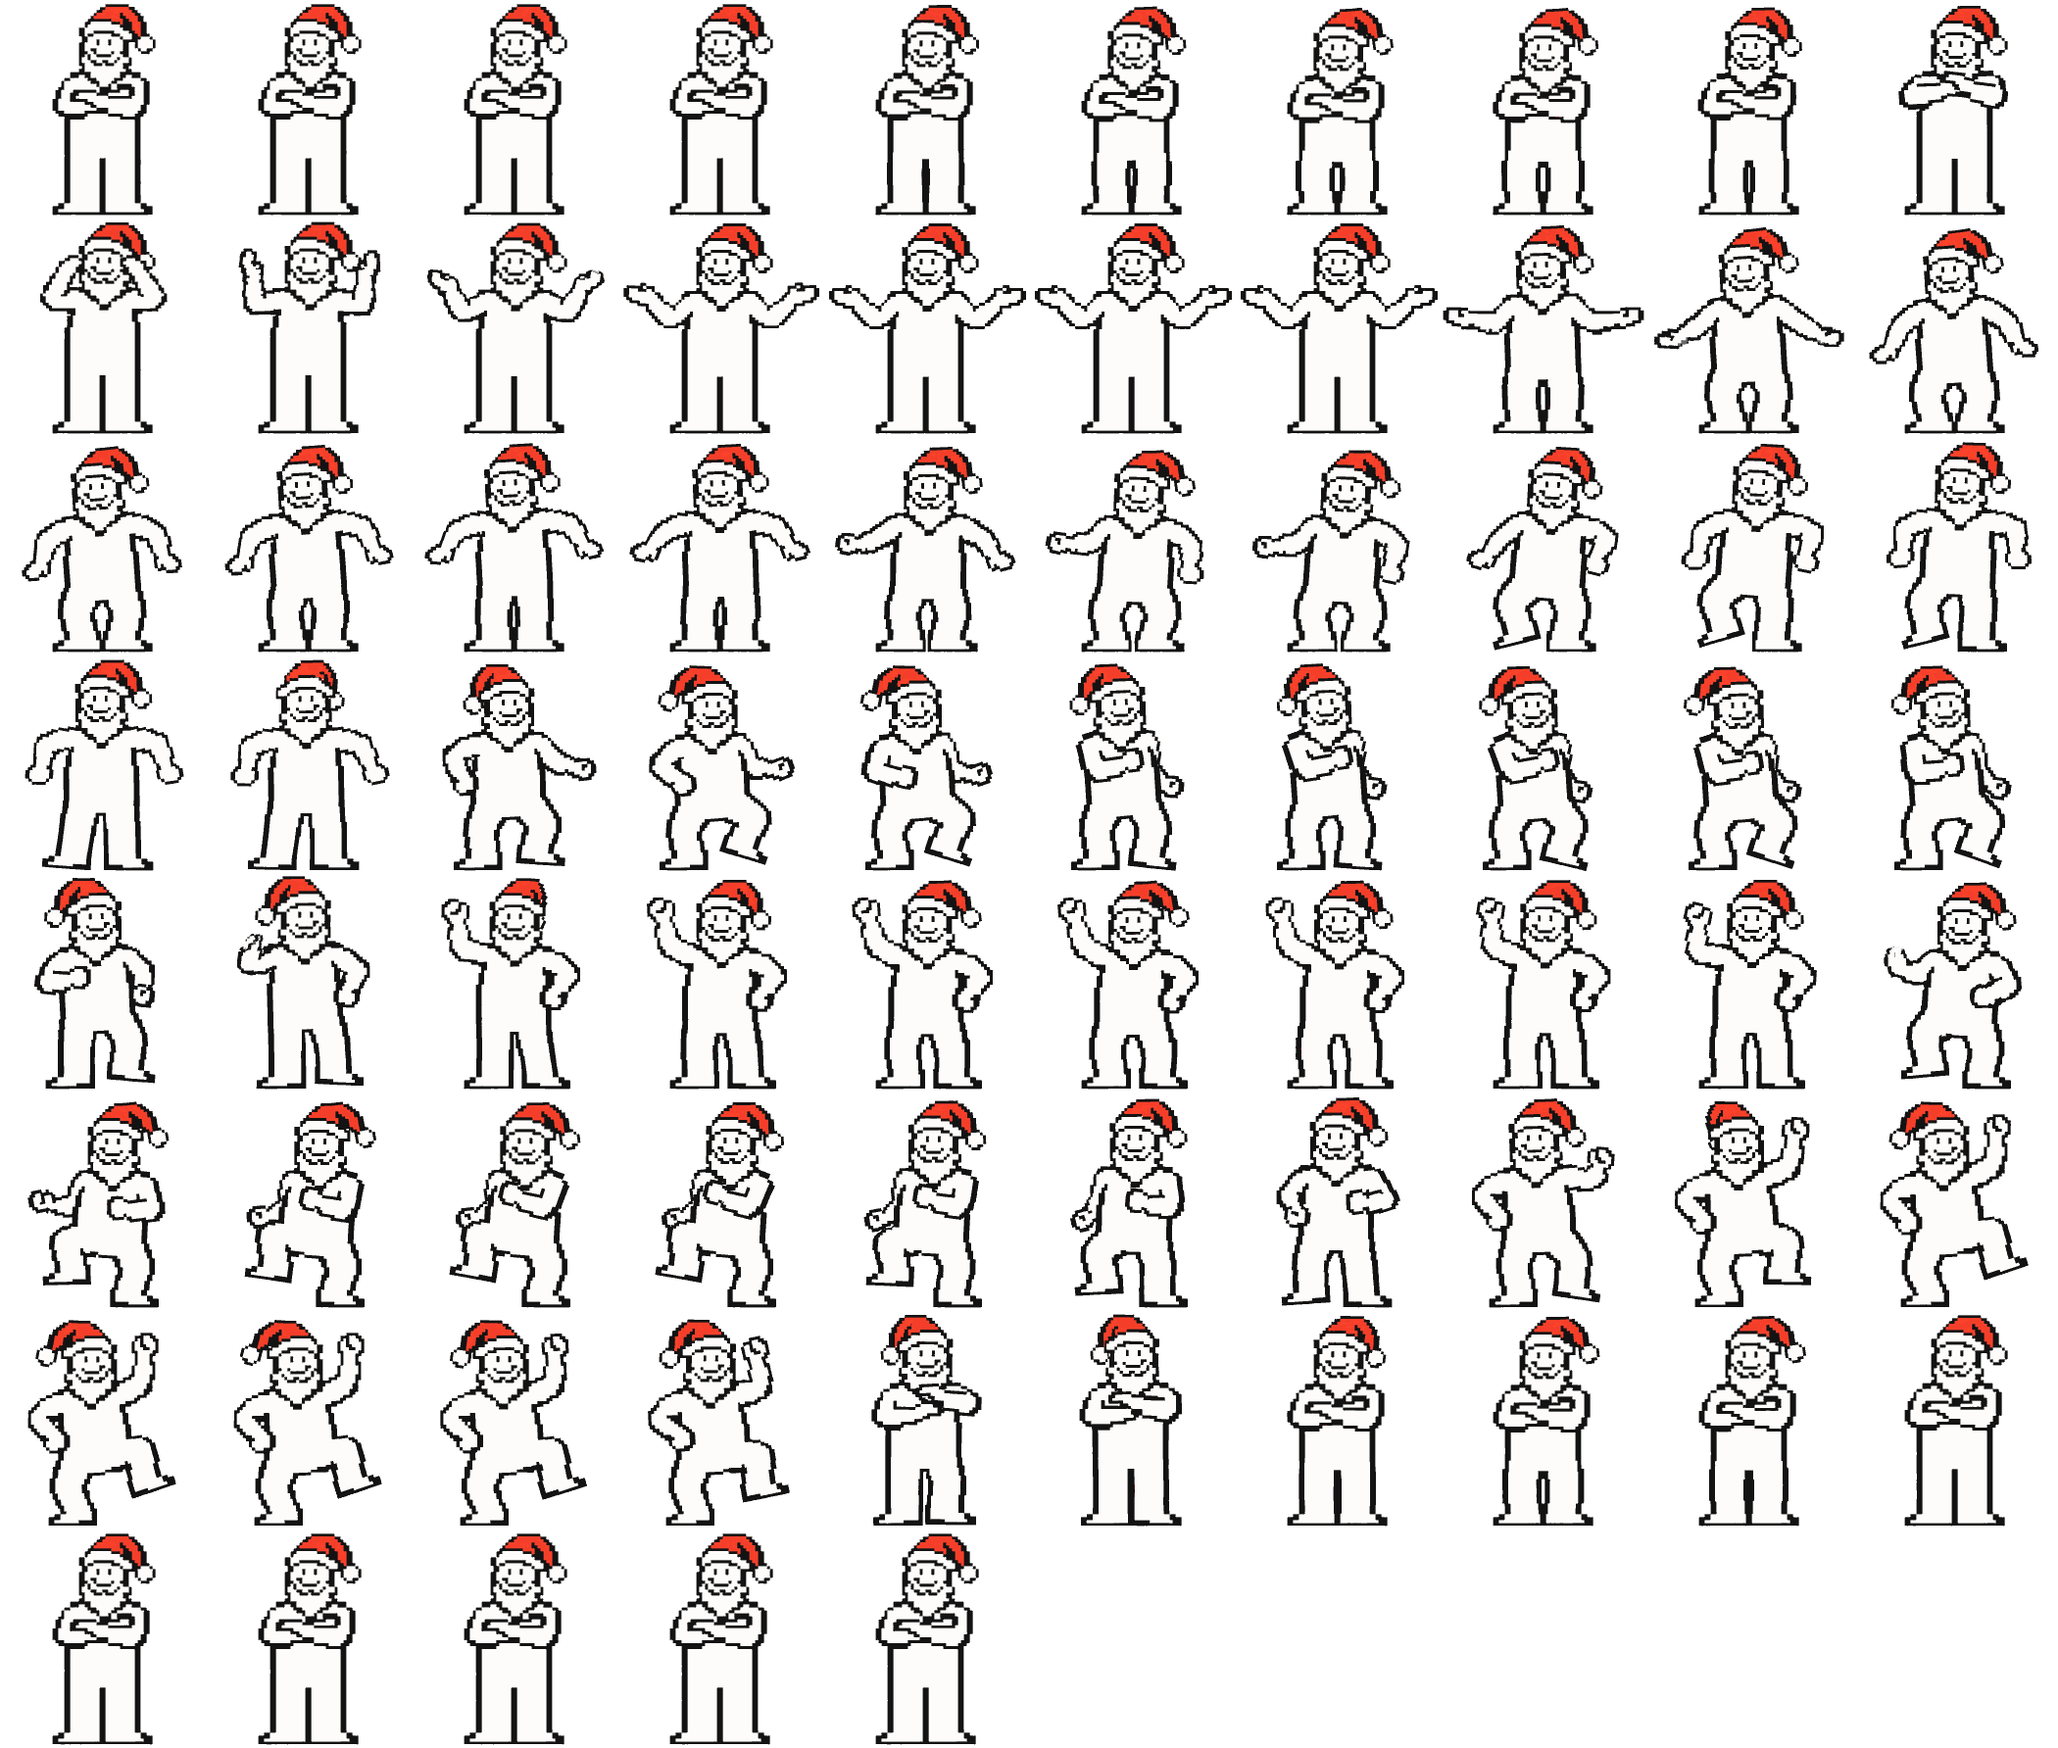
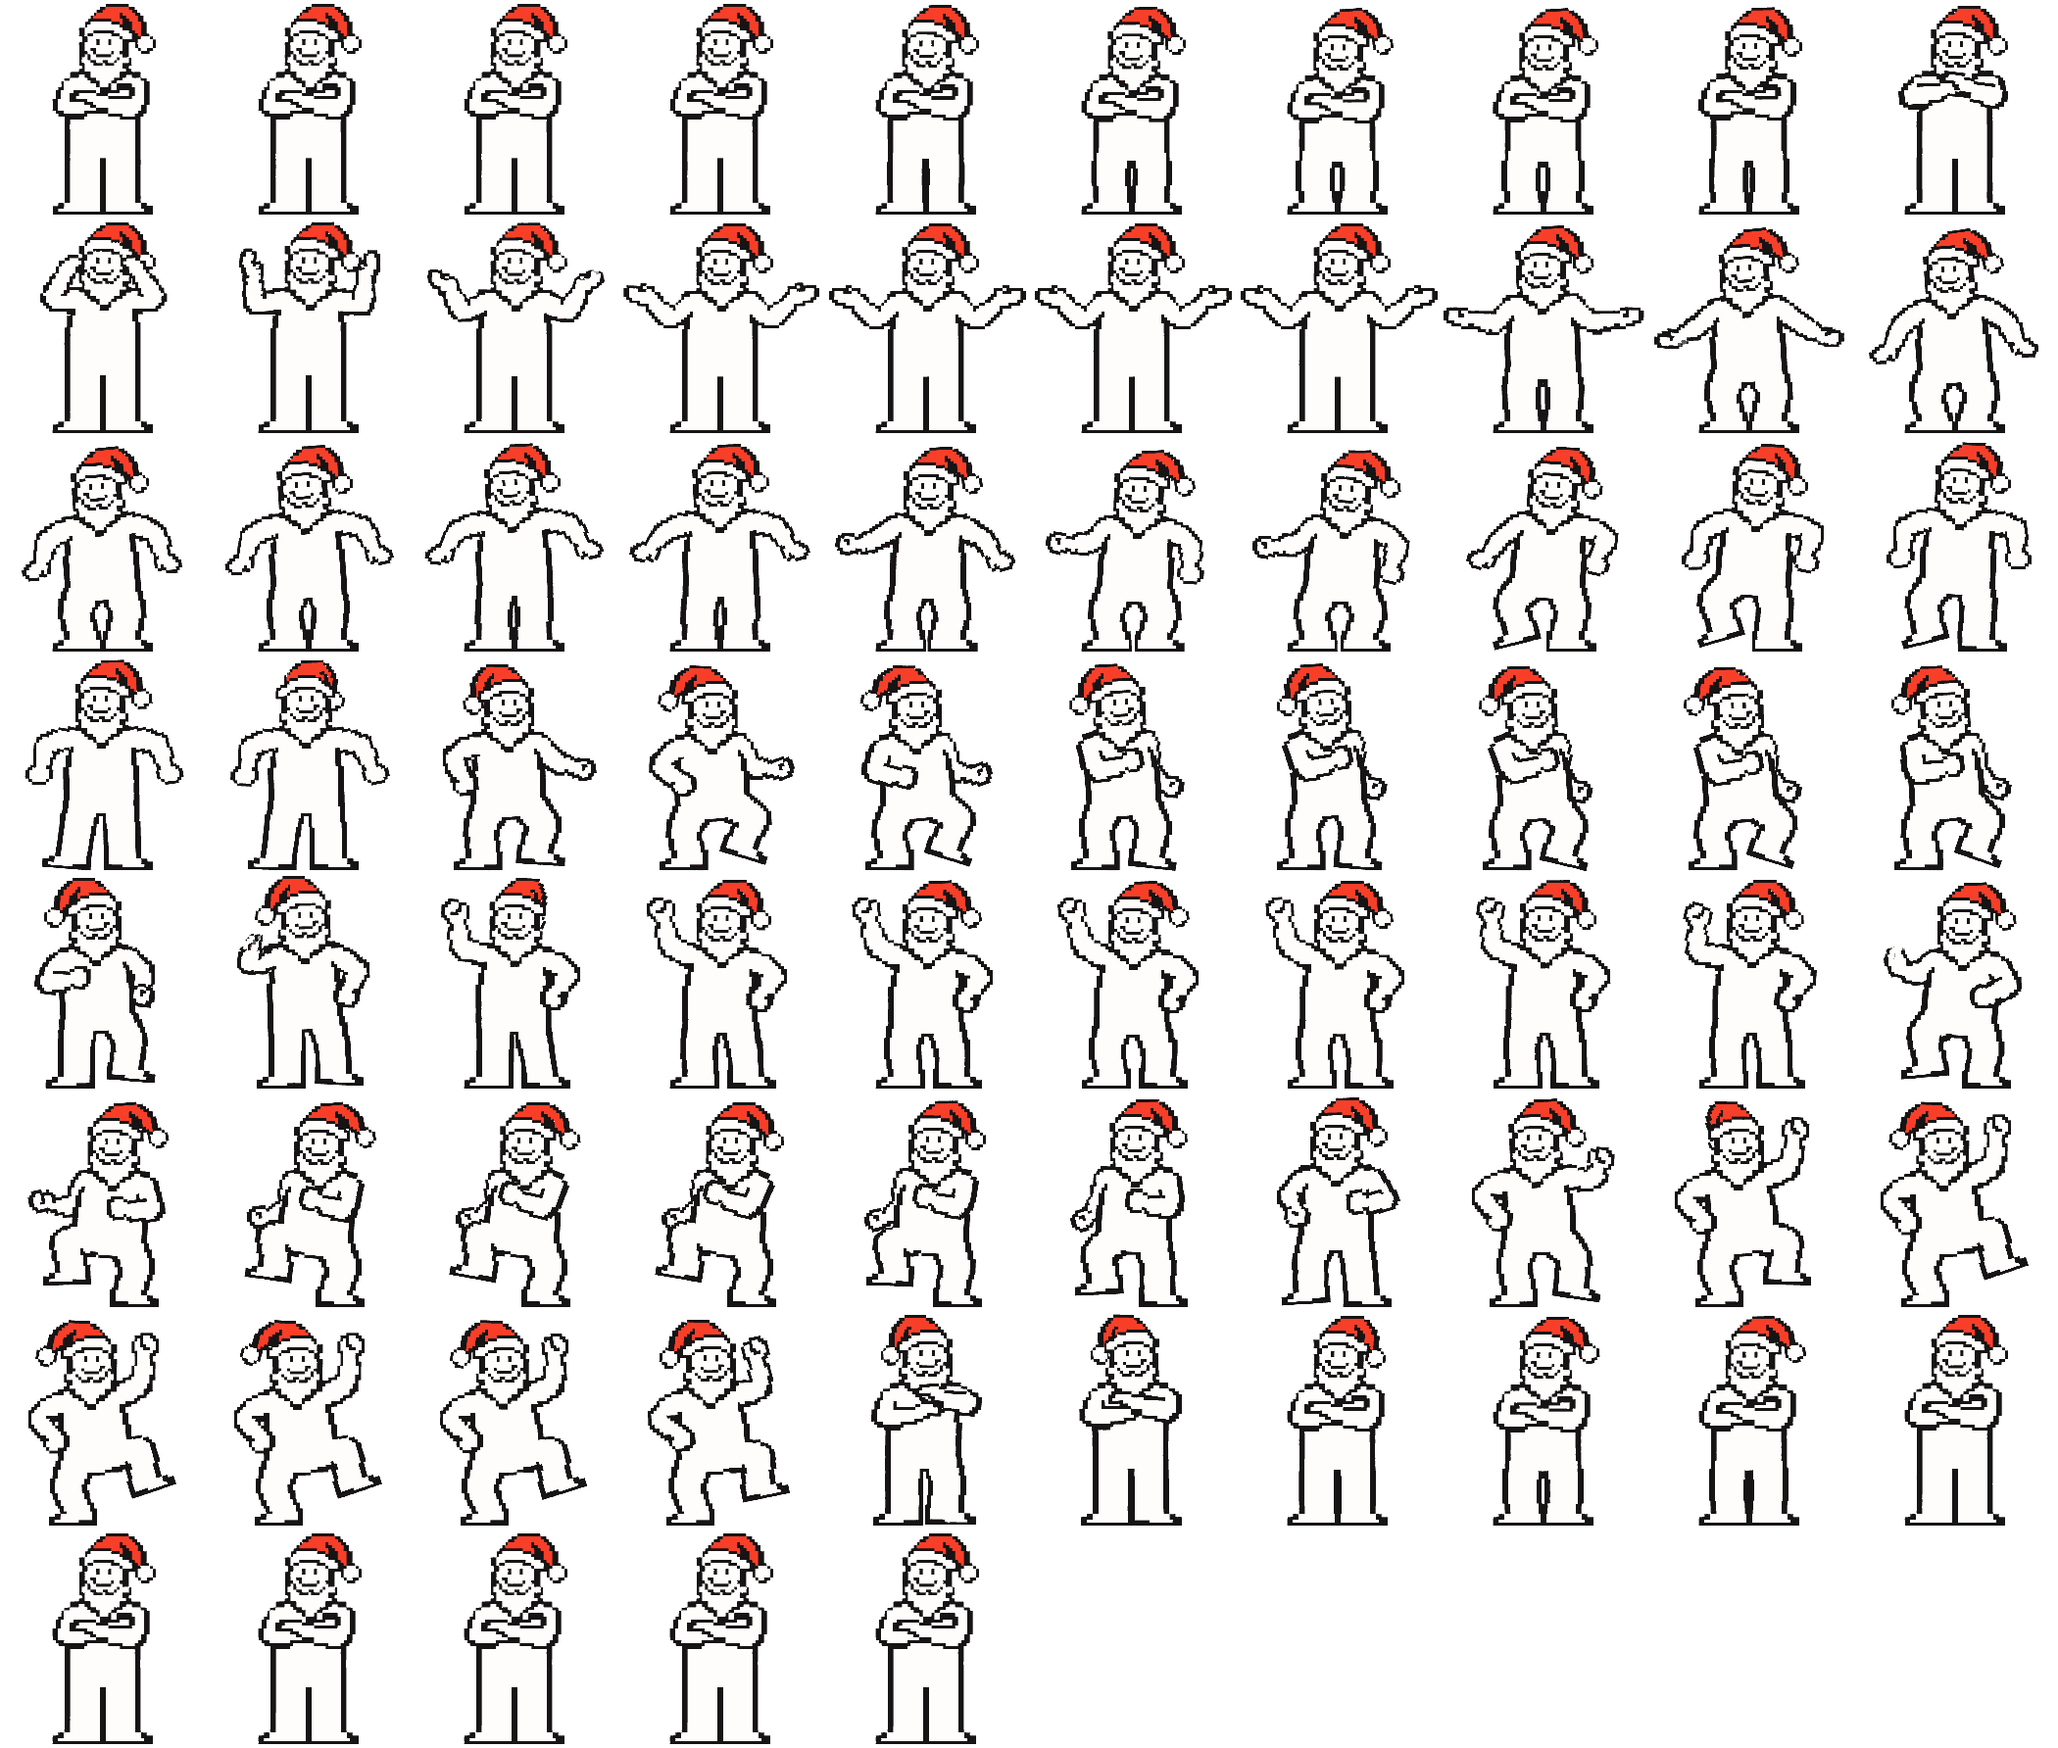
Правка анимации маскота

diff --git a/web/js/app.js b/web/js/app.js
@@ -136,12 +136,12 @@
   var MASCOT_SIZE = { big: [106, 219], small: [53, 110], modal: [53, 110], nr: [71, 146] };   // пропорции фигуры 452:934
   // покадровые анимации (art/gen_mascot_seq.py): лист 10 кадров в строку, 12.5 к/с.
   // Лист шире фигуры: SEQ_BOX — его рамка относительно фигуры idle.png (в пикселях исходника)
-  var SEQ = { hello: { src: 'assets/mascot/hello.png?v=1', n: 75 }, dance: { src: 'assets/mascot/dance.png?v=1', n: 75 } };
+  var SEQ = { hello: { src: 'assets/mascot/hello.png?v=2', n: 75 }, dance: { src: 'assets/mascot/dance.png?v=2', n: 75 } };
   var SEQ_COLS = 10, SEQ_FPS = 12.5, SEQ_BOX = { l: 231, t: 16, w: 902, h: 960, fw: 452, fh: 934 };
   Object.keys(SEQ).forEach(function (k) { new Image().src = SEQ[k].src; });   // прогрев кеша
 
   function Mascot(btn, size) {
-    btn.innerHTML = '<img class="m" data-blink src="assets/mascot/idle.png?v=1" alt=""><span class="seq"></span><span class="shadow"></span>';
+    btn.innerHTML = '<img class="m" data-blink src="assets/mascot/idle.png?v=2" alt=""><span class="seq"></span><span class="shadow"></span>';
     btn.style.width = size[0] + 'px';
     btn.style.height = size[1] + 'px';
     var seqEl = btn.querySelector('.seq');
@@ -210,9 +210,9 @@
   // моргание всех маскотов
   (function blink() {
     setTimeout(function () {
-      document.querySelectorAll('img[data-blink]').forEach(function (im) { im.src = 'assets/mascot/blink.png?v=1'; });
+      document.querySelectorAll('img[data-blink]').forEach(function (im) { im.src = 'assets/mascot/blink.png?v=2'; });
       setTimeout(function () {
-        document.querySelectorAll('img[data-blink]').forEach(function (im) { im.src = 'assets/mascot/idle.png?v=1'; });
+        document.querySelectorAll('img[data-blink]').forEach(function (im) { im.src = 'assets/mascot/idle.png?v=2'; });
         blink();
       }, 140);
     }, 2200 + Math.random() * 2600);

diff --git a/web/js/slides.js b/web/js/slides.js
@@ -87,7 +87,7 @@
     }
     // настоящий QR-код с секретной ссылкой — кнопка, по нажатию показывается крупно
     if (name === 'qr') return '<button type="button" class="s-qr" aria-label="показать код крупно"><img class="px" src="assets/qr-egg.png?v=1" alt=""></button>';
-    if (name === 'mascot') return '<img class="px mascot-img" data-blink src="assets/mascot/idle.png?v=1" alt="">';
+    if (name === 'mascot') return '<img class="px mascot-img" data-blink src="assets/mascot/idle.png?v=2" alt="">';
     if (ART[name]) { ART_CACHE[name] = ART_CACHE[name] || ART[name](); return '<img class="px" src="' + ART_CACHE[name] + '" alt="">'; }
     if (Px[name]) return '<img class="px" src="' + Px[name].url + '" alt="">';
     return '';

diff --git a/web/index.html b/web/index.html
@@ -120,7 +120,7 @@
   <script src="js/api.js?v=7"></script>
   <script src="js/pixels.js?v=5"></script>
   <script src="js/audio.js?v=6"></script>
-  <script src="js/slides.js?v=9"></script>
-  <script src="js/app.js?v=21"></script>
+  <script src="js/slides.js?v=10"></script>
+  <script src="js/app.js?v=22"></script>
 </body>
 </html>

diff --git a/art/gen_mascot_seq.py b/art/gen_mascot_seq.py
@@ -4,7 +4,7 @@
 
 Пишет в web/assets/mascot/:
   idle.png, blink.png — стоит / моргнул (кадр 0 «привета»), обрезано ровно по фигуре FIG
-  hello.png, dance.png — листы кадров (палитра 32 цвета) (каждый 2-й кадр → 12.5 к/с), COLS в строке
+  hello.png, dance.png — листы кадров (палитра 16 цветов, NEAREST — края чёткие) (каждый 2-й кадр → 12.5 к/с), COLS в строке
 Кадры анимаций обрезаны рамкой BOX; в app.js лист кладётся поверх idle со сдвигом
 (BOX относительно FIG) — если меняешь рамки, поправь SEQ_BOX в app.js.
 """
@@ -20,7 +20,7 @@ STEP, COLS = 2, 10
 CW, CH = round((BOX[2] - BOX[0]) / SCALE), round((BOX[3] - BOX[1]) / SCALE)
 
 def frame(im):
-    return im.crop(BOX).resize((CW, CH), Image.LANCZOS)
+    return im.crop(BOX).resize((CW, CH), Image.NEAREST)
 
 def blink(im):
     im = im.copy(); d = ImageDraw.Draw(im)
@@ -39,14 +39,14 @@ def main(hello_dir, dance_dir):
     first = load(hello_dir, 0)
     fw, fh = round((FIG[2] - FIG[0]) / SCALE), round((FIG[3] - FIG[1]) / SCALE)
     for name, im in (("idle", first), ("blink", blink(first))):
-        im.crop(FIG).resize((fw, fh), Image.LANCZOS).quantize(32, method=Image.FASTOCTREE).save(OUT / f"{name}.png", optimize=True)
+        im.crop(FIG).resize((fw, fh), Image.NEAREST).quantize(16, method=Image.FASTOCTREE).save(OUT / f"{name}.png", optimize=True)
     for name, folder in (("hello", hello_dir), ("dance", dance_dir)):
         idx = list(range(0, 150, STEP))
         rows = (len(idx) + COLS - 1) // COLS
         sheet = Image.new("RGBA", (CW * COLS, CH * rows))
         for k, i in enumerate(idx):
             sheet.paste(frame(load(folder, i)), ((k % COLS) * CW, (k // COLS) * CH))
-        sheet.quantize(32, method=Image.FASTOCTREE).save(OUT / f"{name}.png", optimize=True)
+        sheet.quantize(16, method=Image.FASTOCTREE).save(OUT / f"{name}.png", optimize=True)
         print(name, len(idx), "кадров", sheet.size, (OUT / f"{name}.png").stat().st_size // 1024, "КБ")
     print("кадр", CW, "x", CH)
 
